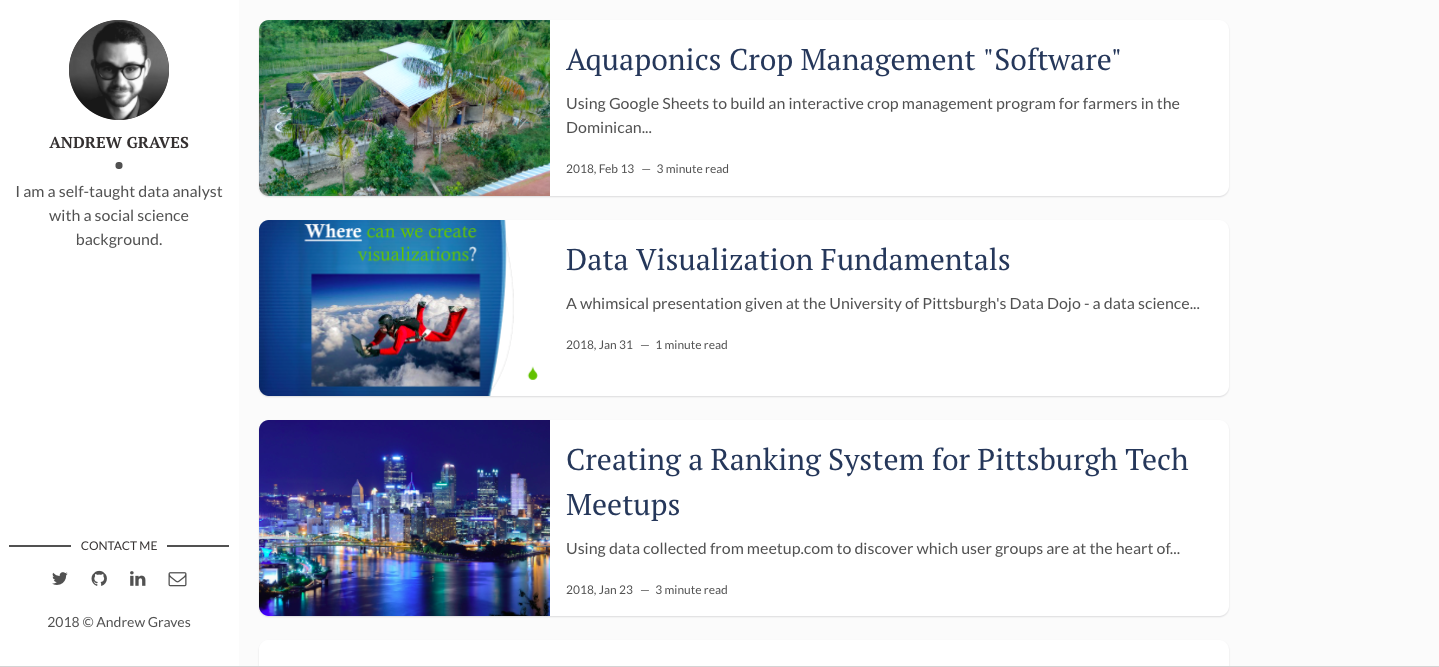
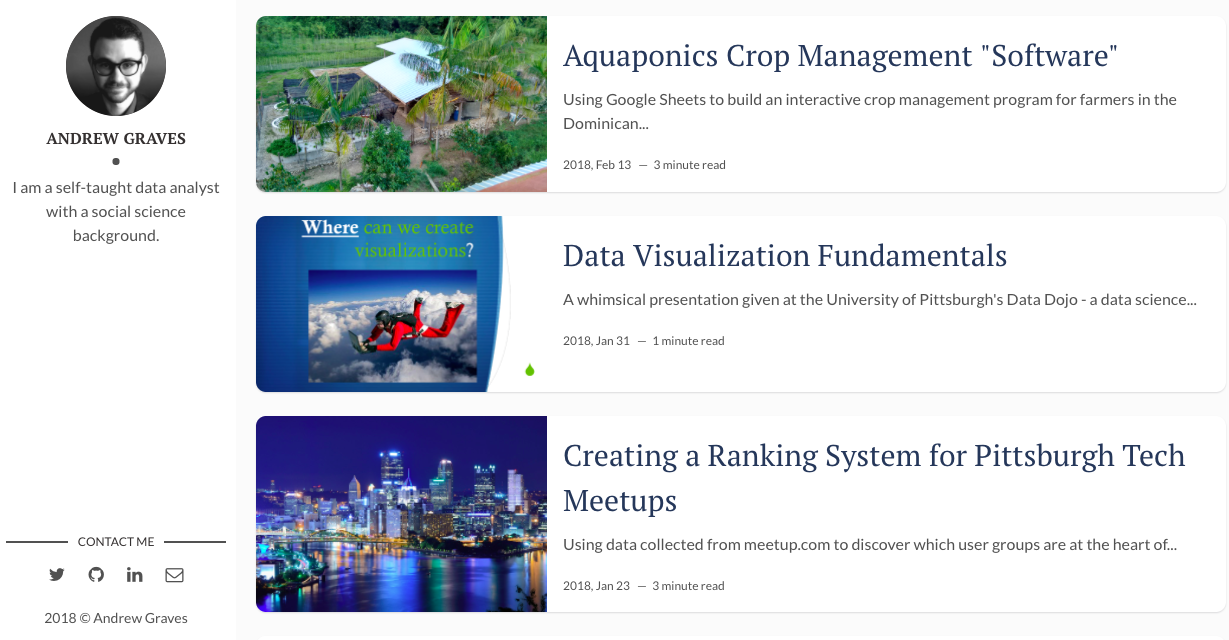
tweaked head.html

Changed region(s): [[0.0, 0.0, 0.9585, 1.0], [0.8967, 0.1562, 0.9585, 0.1875], [0.5256, 0.5312, 0.5875, 0.5625]]

diff --git a/_includes/head.html b/_includes/head.html
@@ -72,7 +72,7 @@
 	<meta name="description" content="{{ page.description }}">
 	<meta http-equiv="X-UA-Compatible" content="IE=edge">
 	<meta name="viewport" content="width=device-width, initial-scale=1, maximum-scale=1">
-	<meta property="og:image" content="">
+	<meta property="og:image" content="{{site.url}}/assets/img/site_preview.png">
 	<link rel="shortcut icon" href="{{ "/assets/img/favicon/favicon.ico" | prepend: site.baseurl }}" type="image/x-icon">
 	<link rel="apple-touch-icon" href="{{ "/assets/img/favicon/apple-touch-icon.png" | prepend: site.baseurl }}">
 	<link rel="apple-touch-icon" sizes="72x72" href="{{ "/assets/img/favicon/apple-touch-icon-72x72.png" | prepend: site.baseurl }}">

diff --git a/_site/aquaponics/index.html b/_site/aquaponics/index.html
@@ -58,7 +58,7 @@
 	<meta name="description" content="That time I created management "software" for farmers utilizing only spreadsheets.">
 	<meta http-equiv="X-UA-Compatible" content="IE=edge">
 	<meta name="viewport" content="width=device-width, initial-scale=1, maximum-scale=1">
-	<meta property="og:image" content="">
+	<meta property="og:image" content="http://localhost:4000/assets/img/site_preview.png">
 	<link rel="shortcut icon" href="/assets/img/favicon/favicon.ico" type="image/x-icon">
 	<link rel="apple-touch-icon" href="/assets/img/favicon/apple-touch-icon.png">
 	<link rel="apple-touch-icon" sizes="72x72" href="/assets/img/favicon/apple-touch-icon-72x72.png">

diff --git a/_site/data-vis-presentation/index.html b/_site/data-vis-presentation/index.html
@@ -56,7 +56,7 @@
 	<meta name="description" content="A whimsical presentation given at the University of Pittsburgh's Data Dojo club.">
 	<meta http-equiv="X-UA-Compatible" content="IE=edge">
 	<meta name="viewport" content="width=device-width, initial-scale=1, maximum-scale=1">
-	<meta property="og:image" content="">
+	<meta property="og:image" content="http://localhost:4000/assets/img/site_preview.png">
 	<link rel="shortcut icon" href="/assets/img/favicon/favicon.ico" type="image/x-icon">
 	<link rel="apple-touch-icon" href="/assets/img/favicon/apple-touch-icon.png">
 	<link rel="apple-touch-icon" sizes="72x72" href="/assets/img/favicon/apple-touch-icon-72x72.png">

diff --git a/_site/meetup-api-data/index.html b/_site/meetup-api-data/index.html
@@ -60,7 +60,7 @@
 	<meta name="description" content="User Friendly Python Script to Gather Meetup.com API Data">
 	<meta http-equiv="X-UA-Compatible" content="IE=edge">
 	<meta name="viewport" content="width=device-width, initial-scale=1, maximum-scale=1">
-	<meta property="og:image" content="">
+	<meta property="og:image" content="http://localhost:4000/assets/img/site_preview.png">
 	<link rel="shortcut icon" href="/assets/img/favicon/favicon.ico" type="image/x-icon">
 	<link rel="apple-touch-icon" href="/assets/img/favicon/apple-touch-icon.png">
 	<link rel="apple-touch-icon" sizes="72x72" href="/assets/img/favicon/apple-touch-icon-72x72.png">

diff --git a/_site/pgh-tech/index.html b/_site/pgh-tech/index.html
@@ -60,7 +60,7 @@
 	<meta name="description" content="Creating a ranking system for Pittsburgh Tech Meetups">
 	<meta http-equiv="X-UA-Compatible" content="IE=edge">
 	<meta name="viewport" content="width=device-width, initial-scale=1, maximum-scale=1">
-	<meta property="og:image" content="">
+	<meta property="og:image" content="http://localhost:4000/assets/img/site_preview.png">
 	<link rel="shortcut icon" href="/assets/img/favicon/favicon.ico" type="image/x-icon">
 	<link rel="apple-touch-icon" href="/assets/img/favicon/apple-touch-icon.png">
 	<link rel="apple-touch-icon" sizes="72x72" href="/assets/img/favicon/apple-touch-icon-72x72.png">

diff --git a/_site/index.html b/_site/index.html
@@ -49,7 +49,7 @@
 	<meta name="description" content="">
 	<meta http-equiv="X-UA-Compatible" content="IE=edge">
 	<meta name="viewport" content="width=device-width, initial-scale=1, maximum-scale=1">
-	<meta property="og:image" content="">
+	<meta property="og:image" content="http://localhost:4000/assets/img/site_preview.png">
 	<link rel="shortcut icon" href="/assets/img/favicon/favicon.ico" type="image/x-icon">
 	<link rel="apple-touch-icon" href="/assets/img/favicon/apple-touch-icon.png">
 	<link rel="apple-touch-icon" sizes="72x72" href="/assets/img/favicon/apple-touch-icon-72x72.png">

diff --git a/_site/tags/index.html b/_site/tags/index.html
@@ -49,7 +49,7 @@
 	<meta name="description" content="">
 	<meta http-equiv="X-UA-Compatible" content="IE=edge">
 	<meta name="viewport" content="width=device-width, initial-scale=1, maximum-scale=1">
-	<meta property="og:image" content="">
+	<meta property="og:image" content="http://localhost:4000/assets/img/site_preview.png">
 	<link rel="shortcut icon" href="/assets/img/favicon/favicon.ico" type="image/x-icon">
 	<link rel="apple-touch-icon" href="/assets/img/favicon/apple-touch-icon.png">
 	<link rel="apple-touch-icon" sizes="72x72" href="/assets/img/favicon/apple-touch-icon-72x72.png">
